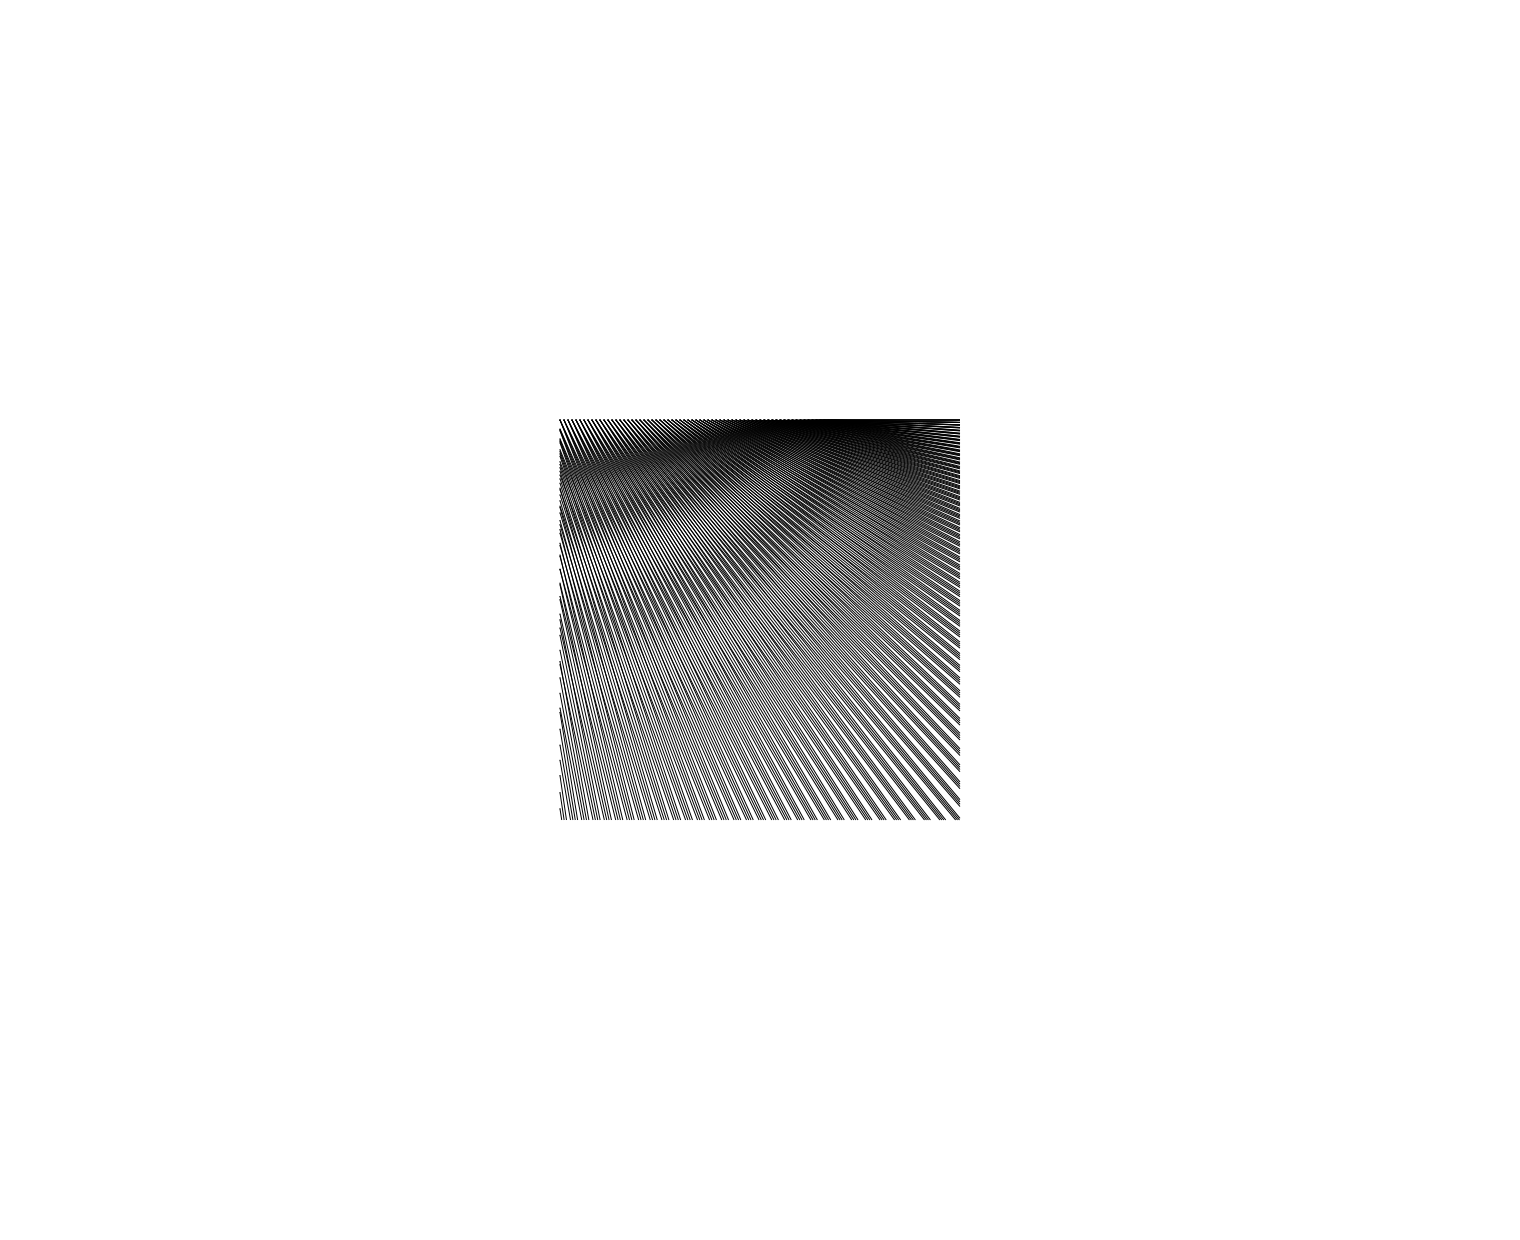
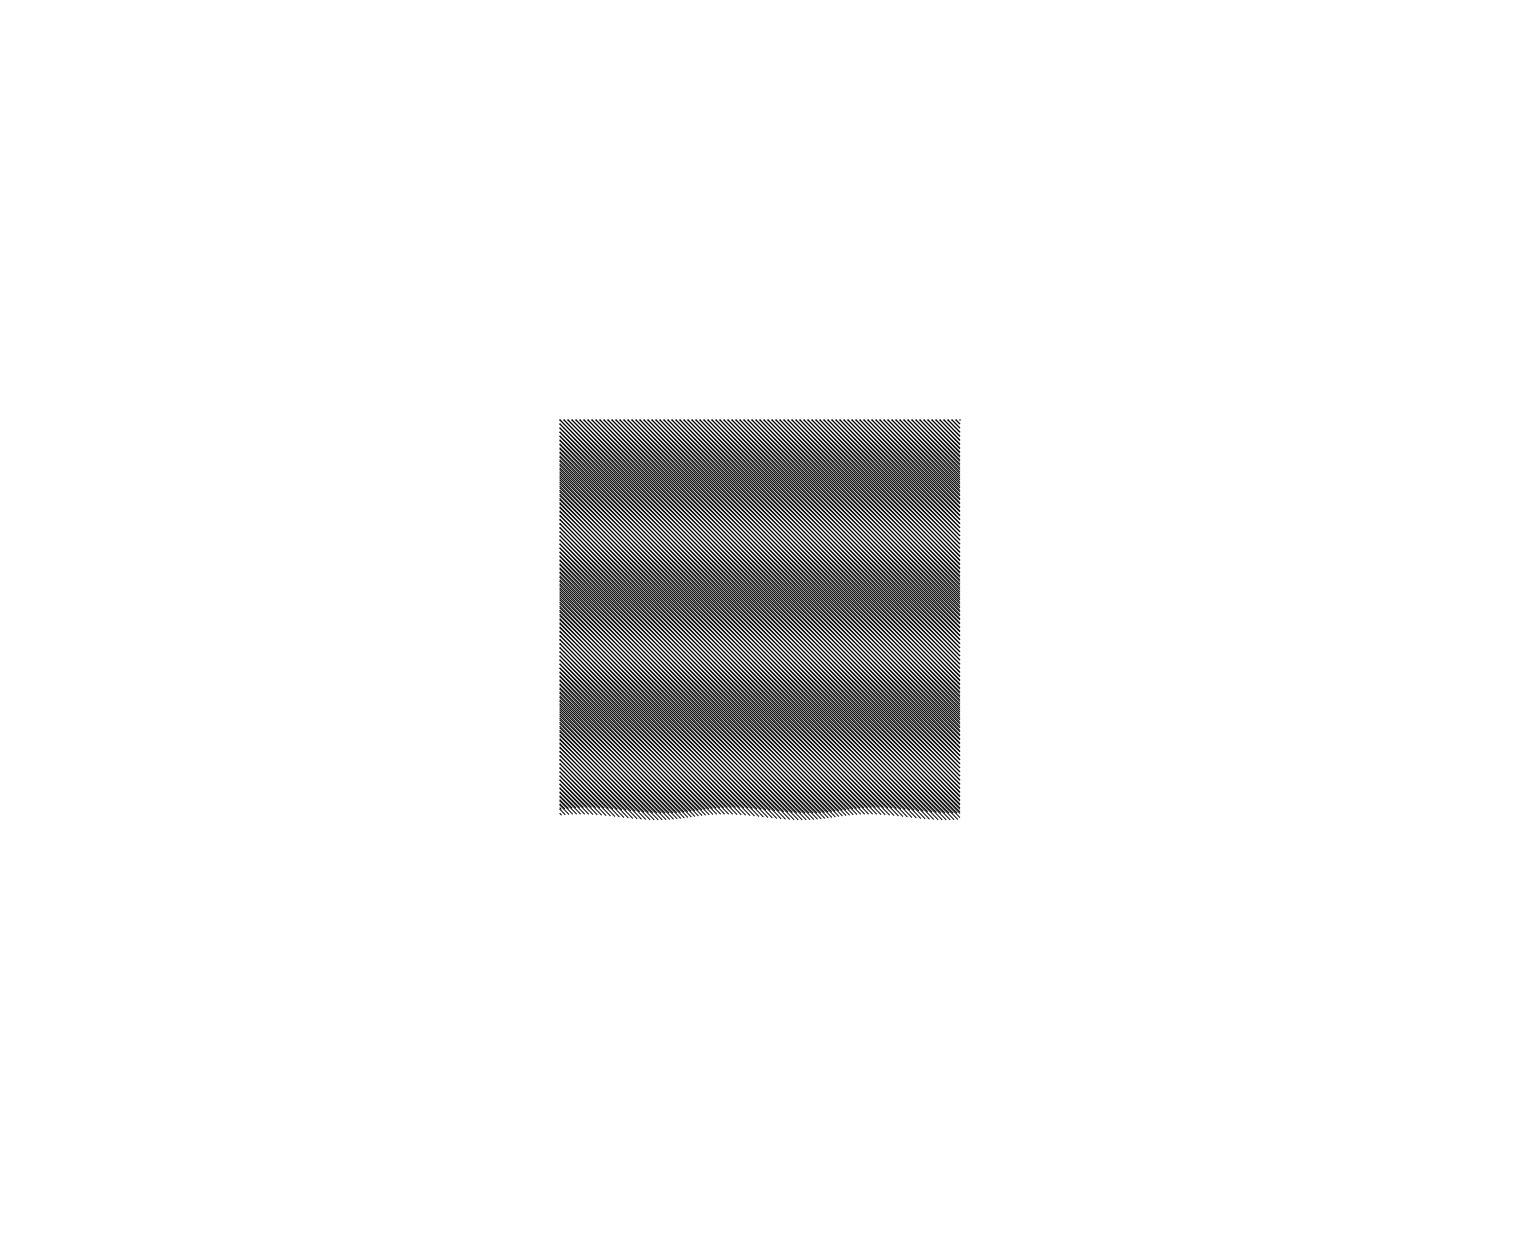
Release crop-tex-6

Changed region(s): [[0.3711, 0.3371, 0.6493, 0.6742]]

diff --git a/index.js b/index.js
@@ -1,7 +1,7 @@
 const playground = require('./lib/playground')
 
 playground({
-  title: 'crop-tex-5',
+  title: 'crop-tex-6',
   server: 'xy-server.local',
   optimize: false,
   useTurtle: false
@@ -21,11 +21,11 @@ playground({
     plotter.height / 2 + 50
   ]
 
-  for (let i = -1; i < 99; i += 1) {
-    const a = [aabb[3] - i, aabb[1]]
-    const b = slope(a, i, 500)
-    for (let j = 0; j < 4; j += 1) {
-      const lines = clip([[a[0] + j, a[1]], [b[0] - j, b[1]]], aabb)
+  for (let i = -100; i < 200; i += 1) {
+    const a = [aabb[0] + i, aabb[1]]
+    for (let j = 0; j < 2; j += 1) {
+      const b = slope(a, 45 + j, 138 + Math.cos(radians(i * 10)))
+      const lines = clip([[a[0], a[1]], [b[0], b[1]]], aabb)
       lines.forEach(line => job.line(...line[0], ...line[1]))
     }
   }
